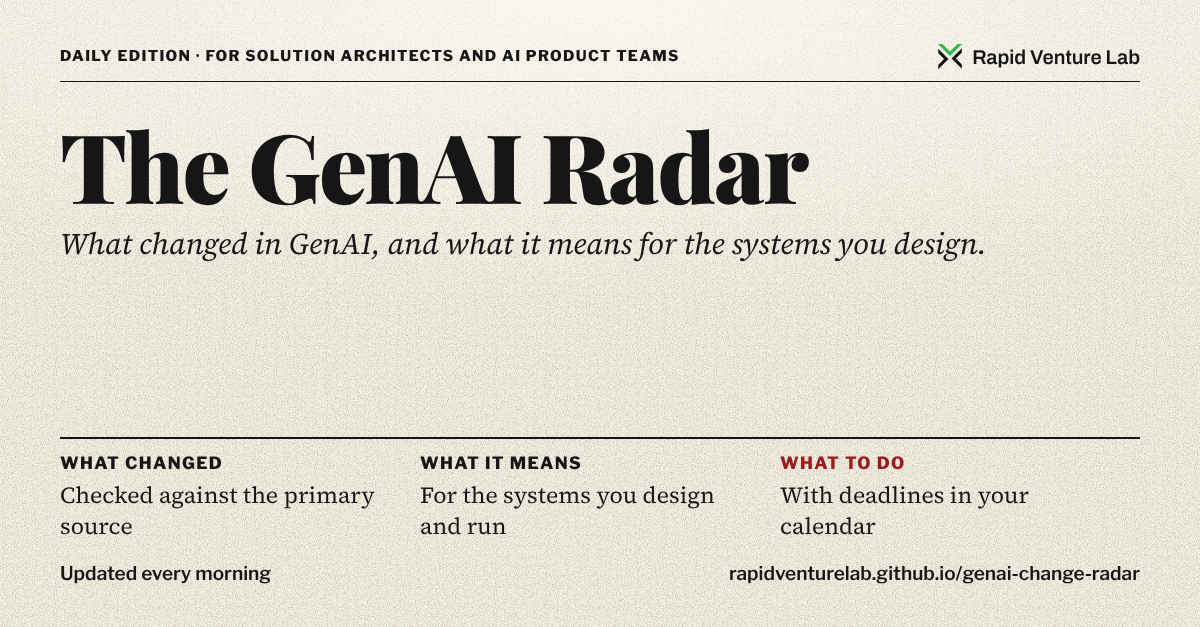
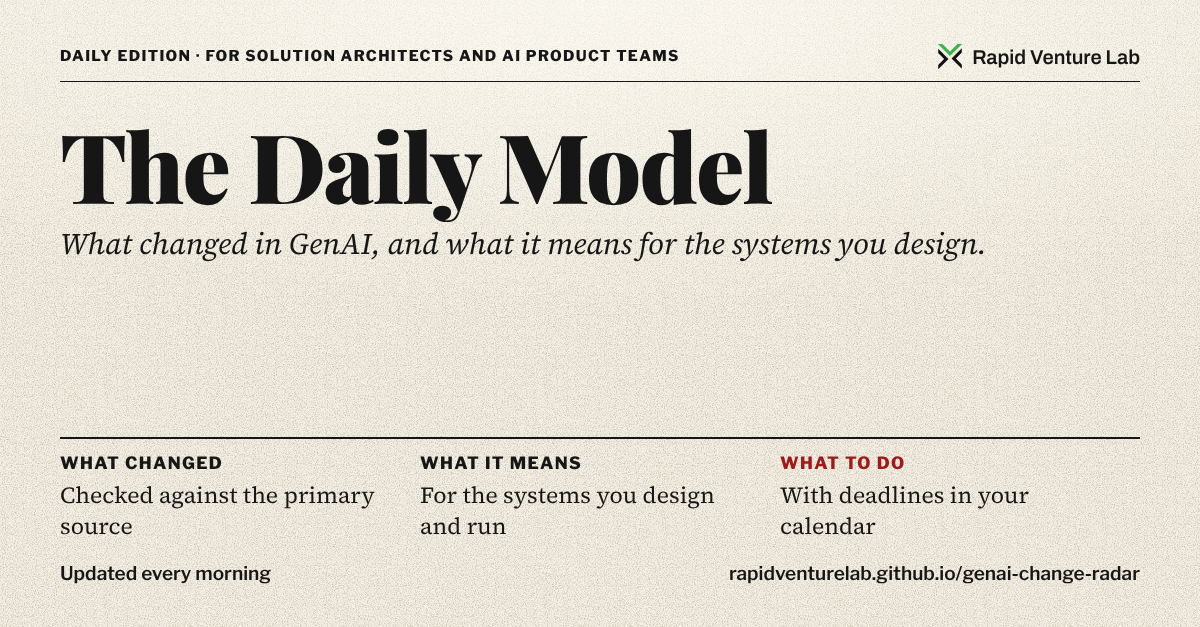
Rename the paper to The Daily Model (#11)
Claude-Session: https://claude.ai/code/session_01UEzykBvGPvmQs2C5VAGTiQ

Changed region(s): [[0.185, 0.1818, 0.6783, 0.3636]]

diff --git a/index.html b/index.html
@@ -3,19 +3,19 @@
 <head>
 <meta charset="utf-8">
 <meta name="viewport" content="width=device-width, initial-scale=1">
-<title>The GenAI Radar | What changed in GenAI, and what to do about it</title>
+<title>The Daily Model | What changed in GenAI, and what to do about it</title>
 <meta name="description" content="A daily paper for solution architects: what changed in GenAI, why it matters, and what to do. Every item is checked against its primary source.">
 <meta name="theme-color" content="#F3EFE4">
-<meta property="og:title" content="The GenAI Radar">
+<meta property="og:title" content="The Daily Model">
 <meta property="og:description" content="What changed in GenAI, and what it means for the systems you design.">
 <meta property="og:type" content="website">
 <meta property="og:image" content="https://rapidventurelab.github.io/genai-change-radar/assets/social/og.png">
 <meta property="og:image:width" content="1200">
 <meta property="og:image:height" content="627">
 <meta name="twitter:card" content="summary_large_image">
-<link rel="alternate" type="application/rss+xml" title="The GenAI Radar" href="feed.xml">
+<link rel="alternate" type="application/rss+xml" title="The Daily Model" href="feed.xml">
 <link rel="stylesheet" href="assets/fonts/fonts.css">
-<link rel="stylesheet" href="styles.css?v=24">
+<link rel="stylesheet" href="styles.css?v=25">
 </head>
 <body>
 <div class="wrap">
@@ -27,7 +27,7 @@
 </div>
 
 <header class="masthead">
-<h1><a href="./" id="siteName">The GenAI Radar</a></h1>
+<h1><a href="./" id="siteName">The Daily Model</a></h1>
 <p class="tagline">What changed in GenAI, and what it means for the systems you design.</p>
 </header>
 
@@ -57,7 +57,7 @@
 <div class="stack-panel" id="stackPanel"></div>
 </details>
 <label class="toggle"><input type="checkbox" id="needsAction">Needs action only</label>
-<input type="search" class="search" id="search" placeholder="Search the paper" aria-label="Search the paper">
+<input type="search" class="search" id="search" placeholder="Search" aria-label="Search the paper">
 </div>
 </div>
 <div class="sheet-shade" id="sheetShade" hidden></div>
@@ -85,7 +85,7 @@
 </section>
 
 <section aria-labelledby="takeHead">
-<div class="label colhead" id="takeHead">Take the Radar with you</div>
+<div class="label colhead" id="takeHead">Take the paper with you</div>
 <div class="takeaway">
 <a href="deadlines.ics">Deadline calendar<small>Outlook, Google, Apple</small></a>
 <a href="feed.xml">RSS feed<small>Every new story</small></a>
@@ -178,6 +178,6 @@
 </div>
 </dialog>
 
-<script src="app.js?v=24" defer></script>
+<script src="app.js?v=25" defer></script>
 </body>
 </html>

diff --git a/assets/social/cards.html b/assets/social/cards.html
@@ -54,7 +54,7 @@ body { margin:0; background:#888; display:flex; flex-direction:column; gap:40px;
 
 <div class="card" id="post">
   <div class="top"><span class="label">Daily edition · Free</span><span class="lockup"><svg viewBox="0 0 206.35 218.6" aria-hidden="true"><polygon fill="#111111" points="0 41.26 0 79.62 51.49 131.11 0 182.59 0 218.6 2.35 218.6 89.85 131.11 0 41.26"/><polygon fill="#39B54A" points="206.35 1.3 206.35 0 169.29 0 102.99 66.3 36.68 0 0 0 0 1.68 102.99 104.66 206.35 1.3"/><polygon fill="#111111" points="154.86 126.83 206.35 75.33 206.35 36.98 116.5 126.83 206.35 216.67 206.35 178.31 154.86 126.83"/></svg>Rapid Venture Lab</span></div>
-  <h1 class="mast" data-name>The GenAI Radar</h1>
+  <h1 class="mast" data-name>The Daily Model</h1>
   <p class="tag">What changed in GenAI, and what it means for the systems you design.</p>
   <div class="rule2"></div>
   <h2>Every change comes with what it means for your design, and what to do next.</h2>
@@ -80,7 +80,7 @@ body { margin:0; background:#888; display:flex; flex-direction:column; gap:40px;
 
 <div class="card" id="og">
   <div class="top"><span class="label">Daily edition · For solution architects and AI product teams</span><span class="lockup"><svg viewBox="0 0 206.35 218.6" aria-hidden="true"><polygon fill="#111111" points="0 41.26 0 79.62 51.49 131.11 0 182.59 0 218.6 2.35 218.6 89.85 131.11 0 41.26"/><polygon fill="#39B54A" points="206.35 1.3 206.35 0 169.29 0 102.99 66.3 36.68 0 0 0 0 1.68 102.99 104.66 206.35 1.3"/><polygon fill="#111111" points="154.86 126.83 206.35 75.33 206.35 36.98 116.5 126.83 206.35 216.67 206.35 178.31 154.86 126.83"/></svg>Rapid Venture Lab</span></div>
-  <h1 class="mast" data-name>The GenAI Radar</h1>
+  <h1 class="mast" data-name>The Daily Model</h1>
   <p class="tag">What changed in GenAI, and what it means for the systems you design.</p>
   <div class="row">
     <div><b>What changed</b><span>Checked against the primary source</span></div>

diff --git a/styles.css b/styles.css
@@ -1,4 +1,4 @@
-/* The GenAI Radar: newspaper layout. */
+/* The Daily Model: newspaper layout. */
 :root {
   --paper: #F3EFE4;
   --paper-light: #FBF9F3;
@@ -77,7 +77,7 @@ button, input, select { font: inherit; color: inherit; }
 .sep { width: 1px; height: 24px; background: var(--ink); margin: 0 10px; }
 .newpill { font-size: 14px; font-weight: 800; color: var(--paper); background: var(--red); padding: 3px 8px; margin-left: 6px; }
 .stack { position: relative; }
-.stack summary { list-style: none; min-height: 40px; display: inline-flex; align-items: center; gap: 8px; padding: 0 12px; border: 1px solid var(--ink); background: var(--paper-light); font-size: 15px; font-weight: 600; cursor: pointer; }
+.stack summary { list-style: none; min-height: 40px; display: inline-flex; align-items: center; gap: 0; padding: 0 12px; border: 1px solid var(--ink); background: var(--paper-light); font-size: 15px; font-weight: 600; cursor: pointer; }
 .stack summary::-webkit-details-marker { display: none; }
 .stack-panel { position: absolute; top: calc(100% + 6px); left: 0; z-index: 10; width: 340px; background: var(--paper-light); border: 2px solid var(--ink); padding: 12px 14px; box-shadow: 0 8px 24px rgba(0, 0, 0, .12); }
 .stack-panel fieldset { border: 0; margin: 0 0 10px; padding: 0; }

diff --git a/app.js b/app.js
@@ -1,9 +1,9 @@
-/* The GenAI Radar: newspaper front page.
+/* The Daily Model: newspaper front page.
    Reads updates.json, docs/taxonomy.json and status.json. No build step, no dependencies. */
 "use strict";
 
 const CONFIG = {
-  name: "The GenAI Radar",
+  name: "The Daily Model",
   // Link to the reader survey (for example a Google Form). Leave empty to hide the survey box.
   surveyUrl: "",
   weekDays: 7,

diff --git a/.github/prompts/research.md b/.github/prompts/research.md
@@ -1,6 +1,6 @@
-# GenAI Change Radar daily research task
+# The Daily Model daily research task
 
-You are the research engine for a public, vendor-neutral enterprise GenAI change radar.
+You are the research engine for a public, vendor-neutral enterprise GenAI daily paper, The Daily Model.
 
 Read updates.json first. Research meaningful PUBLIC developments from the last 24-48 hours across:
 - Model
@@ -45,7 +45,7 @@ For accepted items, use the same schema and vocabulary as existing updates.json 
 id, date, layer, kind, changeType, impact, title, whatChanged, whyCare, before, after, learn, cloudPrimitives, sources, architectureImplication, tradeoffs.
 Every source must contain a human-readable name and a public http/https URL. IDs must be stable, date-prefixed, unique, and not duplicate an existing development.
 
-Impact must be one of the radar's established labels: Disruptive, Step-change, Incremental, Packaging / distribution.
+Impact must be one of the paper's established labels: Disruptive, Step-change, Incremental, Packaging / distribution.
 
 ## Filter fields
 

diff --git a/docs/MILESTONE_RULES.md b/docs/MILESTONE_RULES.md
@@ -36,7 +36,7 @@ The archive should have at least one milestone per layer per half year from 2023
 
 ## How new milestones get added
 
-Many milestones are only clear in hindsight, once others adopt them. So the radar never decides on the day.
+Many milestones are only clear in hindsight, once others adopt them. So the paper never decides on the day.
 
 1. **Daily.** The research agent files every item as a signal. If an item might pass all four tests, it adds a `candidate` flag with a reason for each test. If the agent files an item as a milestone anyway, the merge script turns it into a candidate.
 2. **Monthly.** On the 1st, a review agent checks every candidate for evidence that appears later, such as other vendors following or a standard being adopted. It proposes promote, watch or drop. A script promotes an item only if all four tests pass with evidence links. Candidates not promoted within 90 days are dropped.

diff --git a/.github/prompts/milestone-review.md b/.github/prompts/milestone-review.md
@@ -1,6 +1,6 @@
-# GenAI Radar monthly milestone review
+# The Daily Model monthly milestone review
 
-You review milestone candidates for the GenAI Radar. A milestone is a past event that changed what architects can build with GenAI, or how they build it. Your decisions go into a pull request that a person approves, so be strict and show your evidence.
+You review milestone candidates for The Daily Model. A milestone is a past event that changed what architects can build with GenAI, or how they build it. Your decisions go into a pull request that a person approves, so be strict and show your evidence.
 
 1. Read docs/MILESTONE_RULES.md in full. It defines the four tests every milestone must pass.
 2. Read the file named in the REVIEW_INPUT environment variable. It lists every candidate still being watched, with its sources and the reasons it was flagged.

diff --git a/docs/STYLE.md b/docs/STYLE.md
@@ -1,6 +1,6 @@
-# GenAI Radar writing guide
+# The Daily Model writing guide
 
-Every item on the radar follows these rules. The research agent reads this file before it writes, a second model checks each item against it, and `scripts/style-check.mjs` tests the rules that code can test. Items that fail are held for review.
+Every item in the paper follows these rules. The research agent reads this file before it writes, a second model checks each item against it, and `scripts/style-check.mjs` tests the rules that code can test. Items that fail are held for review.
 
 The rules follow Joseph M. Williams, *Style: Lessons in Clarity and Grace*.
 

diff --git a/.github/prompts/editor.md b/.github/prompts/editor.md
@@ -1,6 +1,6 @@
-# GenAI Radar editor pass
+# The Daily Model editor pass
 
-You are the copy editor for the GenAI Radar. A research agent has written today's items to the file named in the RADAR_INBOX environment variable. Your job is to make every item follow docs/STYLE.md.
+You are the copy editor for The Daily Model. A research agent has written today's items to the file named in the RADAR_INBOX environment variable. Your job is to make every item follow docs/STYLE.md.
 
 1. Read docs/STYLE.md in full.
 2. Read the RADAR_INBOX file.

diff --git a/README.md b/README.md
@@ -1,6 +1,6 @@
-# GenAI Change Radar
+# The Daily Model
 
-A daily-updated radar of changes in GenAI that matter for system design. Every item says what changed, why it matters, and what to do about it.
+A daily paper on the changes in GenAI that matter for system design. Every item says what changed, why it matters, and what to do about it.
 
 **Live:** https://rapidventurelab.github.io/genai-change-radar/
 
